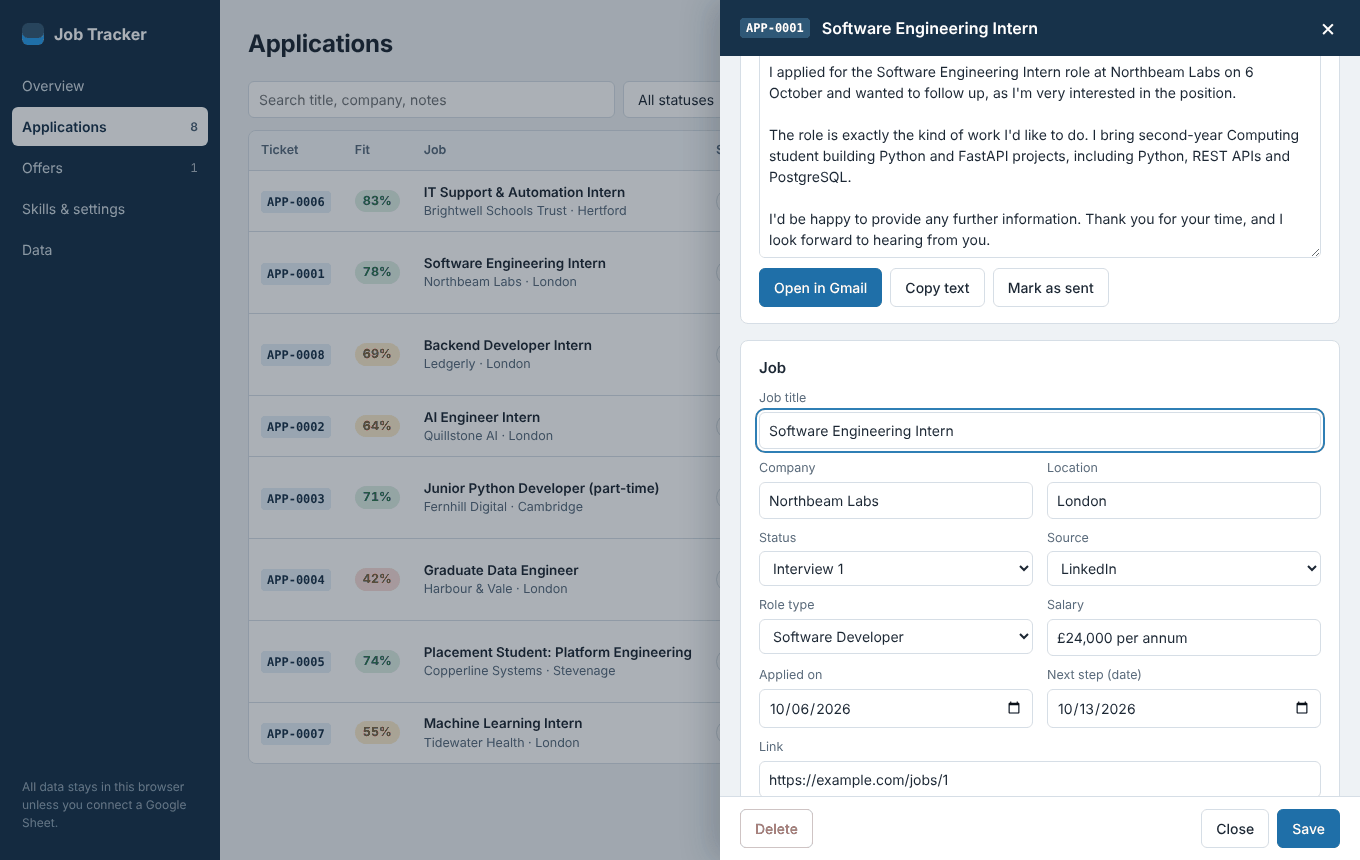
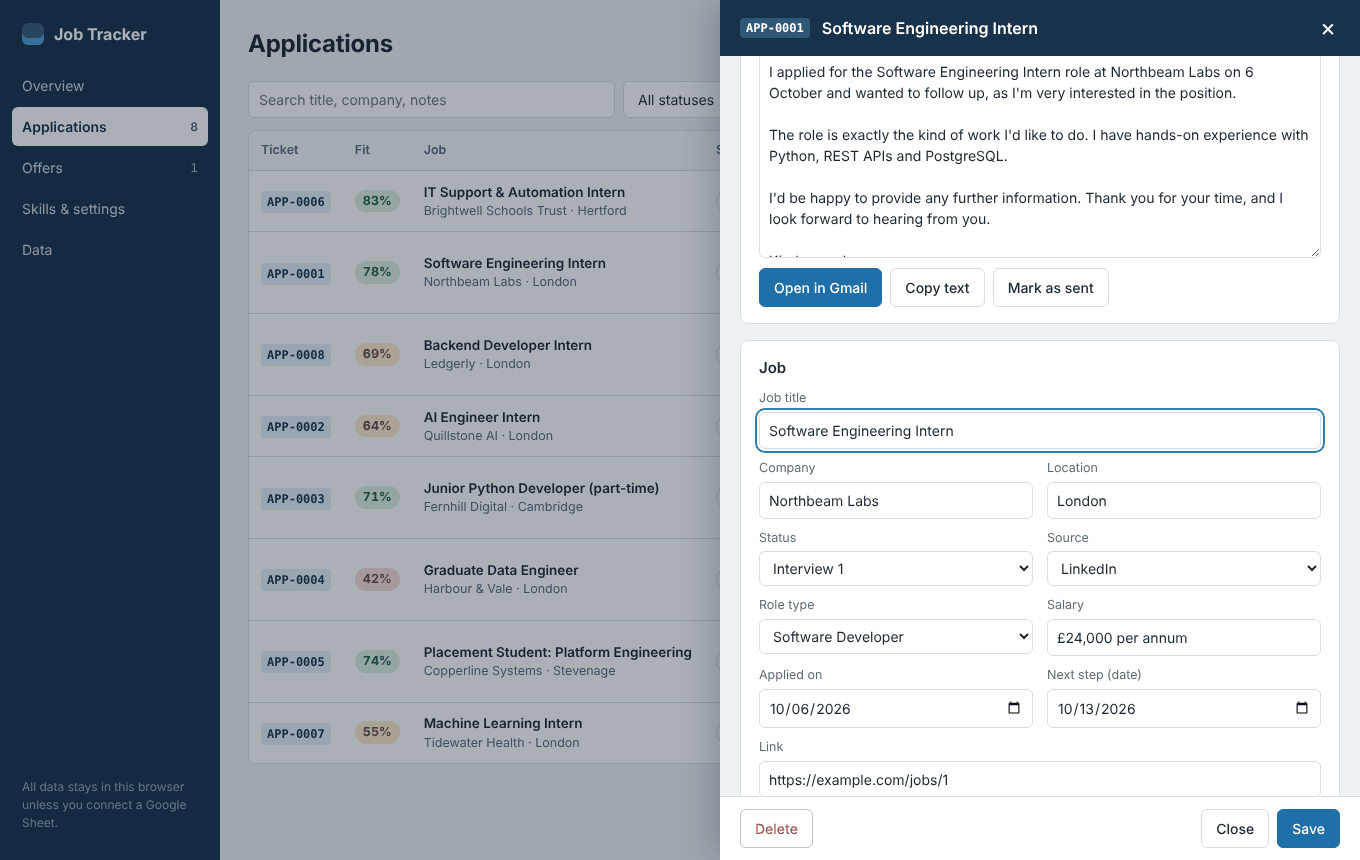
Add README, screenshots, licence and browser smoke test
The README explains what the extension does, how the fit score and the
Google Sheets sync work (including the revision-based change detection
and its known limits), what data it touches, and how to install, test
and upgrade from 1.x. Screenshots use invented companies.

tests/e2e/smoke.py loads the unpacked extension in Chromium with
Playwright, seeds demo data, opens every view, captures an application
from a mocked job page and fails on console errors.

Changed region(s): [[0.5559, 0.1512, 0.9574, 0.3023], [0.5559, 0.9372, 0.5868, 0.9674], [0.0, 0.0302, 0.0309, 0.0605]]

diff --git a/tests/e2e/smoke.py b/tests/e2e/smoke.py
@@ -1,0 +1,71 @@
+"""Loads the unpacked extension in Chromium, seeds fictional data, opens every view,
+captures a fake job page, and reports console errors. Optional screenshots."""
+import sys, json, asyncio, os, shutil, tempfile
+sys.path.insert(0, os.path.dirname(__file__))
+from demo_data import APPS
+from playwright.async_api import async_playwright
+
+# Usage: python3 tests/e2e/smoke.py <path-to-extension> [screenshot-dir]
+EXT = os.path.abspath(sys.argv[1] if len(sys.argv) > 1 else "."); OUT = sys.argv[2] if len(sys.argv) > 2 else None
+JOB_HTML = """<!doctype html><html><head><title>Junior Python Developer - Fernhill Digital - Cambridge | Indeed.com</title>
+<script type="application/ld+json">{"@context":"https://schema.org","@type":"JobPosting","title":"Junior Python Developer",
+"hiringOrganization":{"@type":"Organization","name":"Fernhill Digital"},"jobLocation":{"@type":"Place","address":{"addressLocality":"Cambridge","addressRegion":"Cambridgeshire"}},
+"employmentType":"PART_TIME","baseSalary":{"@type":"MonetaryAmount","currency":"GBP","value":{"@type":"QuantitativeValue","minValue":14,"maxValue":16,"unitText":"HOUR"}},
+"description":"<p>We are a small product studio.</p><h3>Requirements</h3><ul><li>Strong Python and SQL</li><li>Experience with Git</li><li>Docker is essential</li></ul><h3>Nice to have</h3><ul><li>Django or FastAPI would be a plus</li></ul><h3>Benefits</h3><ul><li>25 days annual leave</li><li>Flexible working</li></ul><p>Contact Jane Porter at jobs@fernhill.example for questions. Training provided.</p>"}</script></head>
+<body><main><div id="jobsearch-ViewjobPaneWrapper"><h1 data-testid="jobsearch-JobInfoHeader-title">Junior Python Developer</h1>
+<div data-testid="inlineHeader-companyName">Fernhill Digital</div><div data-testid="inlineHeader-companyLocation">Cambridge</div>
+<div id="jobDescriptionText"><p>We are a small product studio building internal tools for clients.</p><h3>Requirements</h3><ul><li>Strong Python and SQL</li><li>Experience with Git</li><li>Docker is essential</li></ul><h3>Nice to have</h3><ul><li>Django or FastAPI would be a plus</li></ul><h3>Benefits</h3><ul><li>25 days annual leave</li><li>Flexible working</li></ul><p>Contact Jane Porter at jobs@fernhill.example for questions. Training provided. Part-time, 3 days a week.</p></div>
+<button id="jobsearch-ApplyButton">Apply now</button></div></main></body></html>"""
+
+async def main():
+    errors = []
+    user = tempfile.mkdtemp()
+    async with async_playwright() as p:
+        ctx = await p.chromium.launch_persistent_context(user, headless=True, channel='chromium',
+            args=[f'--disable-extensions-except={EXT}', f'--load-extension={EXT}'], viewport={'width': 1360, 'height': 860})
+        sw = ctx.service_workers[0] if ctx.service_workers else await ctx.wait_for_event('serviceworker')
+        ext_id = sw.url.split('/')[2]
+        sw.on('console', lambda m: m.type == 'error' and errors.append('SW: ' + m.text))
+        await asyncio.sleep(1.5)
+        # onInstalled opens the dashboard on install; close extra tabs
+        profile = await sw.evaluate("JT_Store.getProfile()")
+        profile.update({'skills': {'Python': 'strong', 'SQL': 'strong', 'Git': 'strong', 'Linux': 'strong', 'Windows 10/11': 'strong',
+            'REST APIs': 'basic', 'PostgreSQL': 'basic', 'FastAPI': 'basic', 'Docker': 'basic', 'Active Directory': 'basic', 'Microsoft 365': 'basic', 'LLMs / RAG': 'basic', 'pandas': 'basic'},
+            'signName': 'Alex Example', 'areas': ['London', 'Cambridge', 'Hertfordshire', 'Stevenage', 'Hertford'], 'languages': ['Polish'],
+            'pitch': 'second-year Computing student building Python and FastAPI projects'})
+        await sw.evaluate("async ([apps, profile]) => { await chrome.storage.local.set({ apps, profile, counter: 8 }); }", [APPS, profile])
+        page = await ctx.new_page()
+        page.on('pageerror', lambda e: errors.append('PAGE: ' + str(e)))
+        page.on('console', lambda m: m.type == 'error' and errors.append('CONSOLE: ' + m.text))
+        base = f'chrome-extension://{ext_id}/dashboard.html'
+        for view in ['overview', 'apps', 'offers', 'settings', 'data']:
+            await page.goto(base + '#' + view); await asyncio.sleep(0.8)
+            if OUT: await page.screenshot(path=f'{OUT}/dashboard-{view}.png', full_page=False)
+        await page.goto(base + '#app=demo1'); await asyncio.sleep(0.8)
+        if OUT: await page.screenshot(path=f'{OUT}/dashboard-drawer.png')
+        await page.goto(f'chrome-extension://{ext_id}/popup.html'); await page.set_viewport_size({'width': 340, 'height': 560}); await asyncio.sleep(0.6)
+        if OUT: await page.screenshot(path=f'{OUT}/popup.png', full_page=True)
+        await page.set_viewport_size({'width': 1360, 'height': 860})
+        # Fake Indeed job page
+        job = await ctx.new_page()
+        job.on('pageerror', lambda e: errors.append('JOB: ' + str(e)))
+        job.on('console', lambda m: m.type in ('error', 'warning') and '[Job Tracker]' in m.text and errors.append('JOB: ' + m.text))
+        await ctx.route('https://uk.indeed.com/**', lambda r: r.fulfill(status=200, content_type='text/html', body=JOB_HTML))
+        await job.goto('https://uk.indeed.com/viewjob?jk=abcdef1234'); await asyncio.sleep(3)
+        badge = await job.evaluate("(() => { const h = document.getElementById('job-tracker-host'); if (!h) return null; const b = h.shadowRoot.querySelector('.badge'); return b && b.innerText; })()")
+        print('BADGE:', badge)
+        await job.evaluate("document.getElementById('job-tracker-host').shadowRoot.querySelector('.badge').click()")
+        await asyncio.sleep(0.6)
+        if OUT: await job.screenshot(path=f'{OUT}/job-preview.png')
+        await job.click('#jobsearch-ApplyButton'); await asyncio.sleep(2)
+        panel = await job.evaluate("(() => { const p = document.getElementById('job-tracker-host').shadowRoot.querySelector('.jt'); return p && p.innerText.slice(0, 300); })()")
+        print('PANEL:', (panel or '').replace('\n', ' | '))
+        if OUT: await job.screenshot(path=f'{OUT}/job-saved.png')
+        apps = await sw.evaluate("JT_Store.getApps()")
+        new = [a for a in apps if not a['id'].startswith('demo')]
+        print('CAPTURED:', [(a['ticket'], a['title'], a['company'], a['location'], a['salaryText'], a['chance']['score'], a['chance']['matched'], a['chance']['missing'], [c['value'] for c in a['contacts']]) for a in new])
+        await ctx.close()
+    shutil.rmtree(user, ignore_errors=True)
+    print('ERRORS:', json.dumps(errors, indent=1) if errors else 'none')
+
+asyncio.run(main())

diff --git a/tests/e2e/demo_data.py b/tests/e2e/demo_data.py
@@ -1,0 +1,30 @@
+# Fictional demo data for screenshots and smoke tests. Company names are invented.
+import datetime as dt
+now = dt.datetime(2026, 10, 10, 12, 0, tzinfo=dt.timezone.utc)
+def iso(days): return (now - dt.timedelta(days=days)).isoformat().replace('+00:00','Z')
+def app(i, title, company, loc, status, days, score, cat, plat, salary=None, wt=None, hist=None, tools=None, matched=None, basic=None, missing=None, nxt=''):
+    hist = hist or [status]
+    h = []
+    for k, s in enumerate(hist):
+        h.append({'status': s, 'at': iso(days - k*3)})
+    return {
+      'id': f'demo{i}', 'ticket': f'APP-{i:04d}', 'title': title, 'company': company, 'location': loc,
+      'url': f'https://example.com/jobs/{i}', 'urlKey': f'example.com/jobs/{i}', 'platform': plat, 'category': cat,
+      'workTypes': wt or ['Full-time', 'Hybrid'], 'salaryText': salary or '', 'salary': None,
+      'appliedAt': iso(days), 'status': status, 'history': h,
+      'tools': tools or [], 'details': [], 'benefits': [], 'contacts': [], 'followUps': [],
+      'chance': {'score': score, 'label': 'High' if score>=70 else 'Medium' if score>=50 else 'Low', 'tools': tools or [], 'matched': matched or [], 'basic': basic or [], 'missing': missing or [], 'similar': [], 'keyMissing': [], 'reasons': [{'text': 'Skills: demo data', 'delta': 30, 'max': 50}]},
+      'description': '', 'notes': '', 'nextDate': nxt, 'offer': None,
+      'createdAt': iso(days), 'updatedAt': iso(days),
+    }
+APPS = [
+  app(1,'Software Engineering Intern','Northbeam Labs','London','interview1',4,78,'Software Developer','LinkedIn','£24,000 per annum',['Internship','Hybrid'],['applied','screening','interview1'],['Python','REST APIs','PostgreSQL','Git','Docker'],['Python','Git'],['REST APIs','PostgreSQL'],['Docker'], nxt='2026-10-13'),
+  app(2,'AI Engineer Intern','Quillstone AI','London','screening',9,64,'AI / Machine Learning','Wellfound','',['Internship','On-site'],['applied','screening'],['Python','PyTorch','LLMs / RAG','Docker'],['Python'],['LLMs / RAG'],['PyTorch','Docker']),
+  app(3,'Junior Python Developer (part-time)','Fernhill Digital','Cambridge','applied',12,71,'Software Developer','Indeed','£14 - £16 per hour',['Part-time','Hybrid'],None,['Python','Django','SQL','Git'],['Python','SQL','Git'],[],['Django']),
+  app(4,'Graduate Data Engineer','Harbour & Vale','London','rejected',20,42,'Data / Analyst','Reed','£30,000 per annum',['Full-time','On-site'],['applied','rejected'],['Python','SQL','AWS','Airflow'],['Python','SQL'],[],['AWS']),
+  app(5,'Placement Student: Platform Engineering','Copperline Systems','Stevenage','offer',26,74,'Cloud / DevOps','Company website','£22,500 per annum',['Graduate / Placement','Hybrid'],['applied','screening','test','interview1','offer'],['Linux','Docker','Python','CI/CD'],['Linux','Python'],['Docker'],['CI/CD']),
+  app(6,'IT Support & Automation Intern','Brightwell Schools Trust','Hertford','applied',2,83,'IT Help Desk / Service Desk','Indeed','',['Internship','On-site'],None,['Windows 10/11','Active Directory','Python','Microsoft 365'],['Windows 10/11','Python'],['Active Directory','Microsoft 365'],[]),
+  app(7,'Machine Learning Intern','Tidewater Health','London','noresponse',38,55,'AI / Machine Learning','LinkedIn','',['Internship','Remote'],['applied','noresponse'],['Python','scikit-learn','pandas','SQL'],['Python','SQL'],['pandas'],['scikit-learn']),
+  app(8,'Backend Developer Intern','Ledgerly','London','applied',8,69,'Software Developer','Welcome to the Jungle','£25,000 per annum',['Internship','Hybrid'],None,['Python','FastAPI','PostgreSQL','Docker'],['Python'],['FastAPI','PostgreSQL'],['Docker']),
+]
+APPS[4]['offer'] = {'salary': '22500', 'pension': '5', 'hours': '30', 'days': '4', 'mode': 'Hybrid', 'officeDays': '2', 'commuteMin': '40', 'commuteCost': '120', 'holiday': '25', 'training': '500', 'contract': 'Fixed-term', 'gut': '4'}

diff --git a/README.md b/README.md
@@ -1,33 +1,143 @@
-# Job Tracker — трекер заявок на вакансии (Chrome)
+# Job Tracker
 
-## Установка
-1. Распакуй архив в постоянную папку (например, Documents/job-tracker). Не удаляй её потом — Chrome загружает расширение прямо оттуда.
-2. Открой в Chrome адрес `chrome://extensions`.
-3. Справа вверху включи «Режим разработчика» (Developer mode).
-4. Нажми «Загрузить распакованное расширение» (Load unpacked) и выбери папку `job-tracker`.
-5. Закрепи иконку: значок пазла на панели Chrome → булавка рядом с Job Tracker.
+A Chrome extension that records every job you apply for, scores how well each one fits your skills, and keeps the whole pipeline (applications, interviews, offers, follow-ups) in one dashboard, with an optional two-way sync to your own Google Sheet.
 
-## Как пользоваться
-- На LinkedIn, Indeed, Reed, Totaljobs, CV-Library, CWJobs, Glassdoor, jobs.ac.uk нажимаешь «Apply / Easy Apply» — заявка сразу сохраняется, справа появляется окно, где можно поправить поля или отменить.
-- На любом другом сайте (например, сайт компании): иконка расширения → «Добавить вакансию с этой страницы».
-- Дашборд: иконка → «Открыть дашборд». Там обзор, все заявки, статусы, сравнение офферов, навыки.
-- Число на иконке — сколько заявок за последние 7 дней.
+I built it for my own job search in the UK, to keep track of applications spread across several job boards, know when to follow up, and see which skills kept coming up in ads.
 
-## Важно
-- Данные хранятся только в этом браузере. Раз в неделю делай «Данные → Скачать копию (JSON)».
-- Сайты иногда меняют вёрстку: если поле считалось неточно — поправь его в окне или в карточке заявки, а описание можно вставить вручную и нажать «Пересчитать анализ».
-- «Шансы» — ориентир по совпадению навыков, уровню позиции, опыту, графику, правам и допуску. Не прогноз.
-- После обновления файлов расширения нажми «Обновить» на chrome://extensions и перезагрузи вкладки с сайтами вакансий.
+![Dashboard overview](docs/screenshots/overview.png)
 
-## Google Таблица (доступ с телефона)
-1. Создай новую таблицу: sheets.new.
-2. «Расширения» → «Apps Script». Удали код в редакторе, вставь содержимое `google-sheets/Code.gs`, сохрани (Ctrl+S).
-3. Выбери функцию `setup` → «Выполнить». Google спросит доступ: «Дополнительно» → «Перейти к проекту (небезопасно)» → «Разрешить». Это твой собственный скрипт, он работает только с этой таблицей.
-4. «Развернуть» → «Новое развёртывание» → ⚙ «Веб-приложение». Выполнять от имени: «Я». У кого есть доступ: «Все». «Развернуть» → скопируй ссылку, которая заканчивается на `/exec`.
-5. В расширении: «Навыки и настройки» → «Google Таблица» → вставь ссылку и токен (строка `TOKEN` в начале скрипта) → «Проверить подключение» → «Синхронизировать сейчас».
+## What it does
 
-- С телефона меняй «Статус» (выпадающий список), «Заметки», «Следующий шаг», зарплату — расширение заберёт изменения при открытии дашборда и каждые 10 минут, пока Chrome открыт.
-- Новую заявку можно добавить прямо в таблице: заполни «Вакансию» и «Компанию» в пустой строке.
-- Удаляй заявки в расширении: удалённая в таблице строка вернётся.
-- Если поменял код скрипта: «Развернуть» → «Управление развёртываниями» → ✎ → Версия: «Новая версия». Ссылка при этом не изменится.
-- Токен — это пароль к твоей таблице. Не публикуй его и ссылку.
+- **Captures applications automatically.** Press *Apply* on LinkedIn, Indeed, Reed, Totaljobs, CV-Library, CWJobs, Glassdoor or jobs.ac.uk and the job is saved with its title, company, location, salary, description and any recruiter contacts. On any other site, one click in the popup adds the page.
+- **Scores fit before you apply.** A badge on the job page shows a 0–100 score and the reasons behind it: which tools in the ad you know, which you don't, seniority, years of experience, and hard constraints such as a driving licence or security clearance.
+- **Scores search results.** Each card in a results list gets a badge, and a small panel filters out jobs below a minimum score, jobs you already applied to, or senior roles.
+- **Tracks the pipeline.** Twelve statuses from *Applied* to *Offer accepted*, a full history per application, a weekly chart, response rate per job board, and a list of what needs attention (follow-ups due, next steps, offer deadlines).
+- **Drafts follow-ups.** Email, LinkedIn note (kept under the 200-character limit) or a phone script, tailored to the job and to whether it was posted by an agency.
+- **Compares offers.** Salary, pension, hours, commute time and cost, holidays and training, weighted by sliders for what matters to you, including an effective hourly rate once the commute is counted.
+- **Syncs with Google Sheets.** Applications are copied to a sheet you own; status or notes changed in the sheet (on your phone, say) come back to the extension.
+
+| Fit before you apply | Application drawer with follow-up |
+| --- | --- |
+| ![Fit panel on a job page](docs/screenshots/fit-panel.png) | ![Application drawer](docs/screenshots/application-drawer.png) |
+
+*Screenshots use invented companies and demo data.*
+
+## How it works
+
+```mermaid
+flowchart LR
+  subgraph tab [Job site tab]
+    CS[content.js<br/>catches Apply, reads the job,<br/>shows the fit panel]
+    LS[listscan.js<br/>scores result cards]
+  end
+  subgraph ext [Extension]
+    AN[lib/analyzer.js<br/>skills, salary, sections, fit score]
+    ST[(chrome.storage.local)]
+    SW[background.js<br/>service worker]
+    DB[dashboard.html / popup.html]
+  end
+  GS[Apps Script web app<br/>google-sheets/Code.gs] --- SH[(Your Google Sheet)]
+
+  CS --> AN --> ST
+  LS --> AN
+  DB <--> ST
+  ST -- change --> SW
+  SW -- "lib/sync.js: push / pull" --> GS
+```
+
+Everything runs locally. The analyser is plain JavaScript with no network calls and no model: a dictionary of around 100 tools and skills with regular expressions, a parser that splits an ad into requirements, nice-to-haves, responsibilities and benefits, and a points-based score.
+
+### The fit score
+
+| Part | Points | How |
+| --- | --- | --- |
+| Skills | up to 50 | Each tool found in the ad is weighted 1.5× if it sits under *Requirements* or next to words like *essential*, 0.5× if it is *desirable*, and half again if it is a basic that almost every ad mentions. Your level per tool (confident, basic, none) gives full, 60% or zero credit, with partial credit for a similar tool you know (FastAPI for Django, VMware for Proxmox). |
+| Level | up to 20 | Intern, graduate, placement and junior titles score highest; senior, lead and principal score zero; role types you are not aiming for score low. |
+| Experience | up to 15 | Years of experience asked for, read from phrases like *2+ years of commercial experience*. |
+| Constraints | negative | Driving licence, security clearance, a required degree, a location outside your areas, local candidates only. |
+| Bonuses | positive | Part-time or flexible hours when you work fewer than five days; a language you speak that the ad asks for. |
+
+It is a guide for deciding where to spend time, not a prediction.
+
+### Google Sheets sync
+
+The service worker pushes changes a few seconds after they happen and does a full pull and push every 10 minutes and when the dashboard opens.
+
+- **What to push.** Every write bumps a revision number on the application; the sync sends applications whose revision differs from the one it last sent. An earlier version compared timestamps, and a unit test caught that two writes in the same millisecond made the second one look already synced.
+- **Conflicts.** The sheet records when a row was edited (`onEdit`). On pull, a sheet row newer than the local copy wins for the fields people edit in the sheet: status, notes, next step, salary, title, company and location. Otherwise the local copy wins and is pushed.
+- **Deletes.** Deleting in the extension queues the ID and removes the row on the next push. A row deleted only in the sheet is restored, so the extension stays the source of truth.
+- **Access.** The Apps Script runs as a web app. `setup()` generates a random token and keeps it in Script Properties; every request must carry it. Nothing secret is in the repository, and *Create a new sync token* in the sheet menu revokes the old one.
+
+Known limitations: conflict resolution compares the sheet's clock with the browser's; the GET request carries the token in the query string because Apps Script web apps cannot read headers.
+
+## Responsible use
+
+- Your applications stay in your browser (`chrome.storage.local`) unless you connect your own sheet. There is no server and no analytics.
+- The extension reads the job you have open. It never fetches LinkedIn pages in the background. Loading full descriptions for Indeed search results is an opt-in setting, rate-limited, and pauses when the site asks it to.
+- It asks only for the permissions it uses: storage, the active tab and scripting (for *Add this page*), alarms (for the 10-minute sync), the supported job sites for the content scripts, and the two Google Apps Script hosts used by the sync.
+
+## Install
+
+1. Download or clone this repository.
+2. Open `chrome://extensions`, turn on **Developer mode**, choose **Load unpacked** and select the folder.
+3. The dashboard opens on **Skills & settings**: mark your level for the tools you know, tick the role types you are aiming for, and add the towns you can work in.
+4. Pin the extension and open a job on any supported site.
+
+### Connect a Google Sheet (optional, 5 minutes)
+
+1. Create a sheet at [sheets.new](https://sheets.new) and open **Extensions → Apps Script**.
+2. Replace the editor contents with [`google-sheets/Code.gs`](google-sheets/Code.gs), save, select `setup` and press **Run**. Approve the access request; it is your own script and only touches this sheet.
+3. In the sheet, open **Job Tracker → Show sync token** and copy the token.
+4. **Deploy → New deployment → Web app**, execute as *Me*, access *Anyone*, then copy the URL that ends in `/exec`.
+5. In the extension: **Skills & settings → Google Sheet**, paste the URL and token, press **Test connection**, then **Sync now**.
+
+### Upgrading from 1.x
+
+Version 2.0 switched the interface from Russian to English. Saved applications, settings and backups are migrated automatically when the extension updates (`lib/legacy.js`). For the sheet, paste the new `Code.gs`, run `setup` once (it renames the old sheet and translates its statuses), create a new deployment version and copy the token from the menu.
+
+## Development
+
+No build step and no runtime dependencies: the extension loads the files in this folder as they are.
+
+```bash
+npm test          # 41 unit tests with node:test (Node 20+)
+npm run check     # manifest references, script syntax, no committed token
+```
+
+The unit tests load the real `lib/` files with a fake `chrome.storage` (`tests/helpers/env.js`) and test the sync against an in-memory stand-in for the Apps Script web app (`tests/helpers/fake-sheet.js`). GitHub Actions runs both commands on every push.
+
+`tests/e2e/smoke.py` loads the unpacked extension in Chromium with Playwright, seeds demo data, opens every dashboard view, captures an application from a mocked job page and fails on any console error. It also produced the screenshots above:
+
+```bash
+pip install playwright && playwright install chromium
+python3 tests/e2e/smoke.py . docs/screenshots
+```
+
+### Project structure
+
+```
+manifest.json         Manifest V3
+background.js         service worker: badge, auto-sync, migrations
+content.js            job pages: Apply detection, extraction, fit panel
+listscan.js           search results: score badges and filter panel
+popup.html/js         toolbar popup
+dashboard.html/js/css overview, applications, offers, settings, data
+lib/analyzer.js       skills dictionary, salary parser, sections, fit score
+lib/extract.js        per-site selectors, JSON-LD, contacts
+lib/store.js          storage, tickets, URL normalisation, revisions
+lib/sync.js           Google Sheets push / pull
+lib/followup.js       follow-up templates
+lib/legacy.js         migration from the Russian-language 1.x versions
+google-sheets/Code.gs Apps Script web app and sheet formatting
+tests/                unit tests, helpers and the browser smoke test
+```
+
+## Roadmap
+
+- Move the analyser to TypeScript and split `dashboard.js` into modules.
+- Replace keyword matching with semantic matching: a small Python (FastAPI) service that embeds the job ad and the CV, compared against the current scorer on a hand-labelled set of real ads.
+- Publish to the Chrome Web Store.
+
+## Licence
+
+[MIT](LICENSE)
